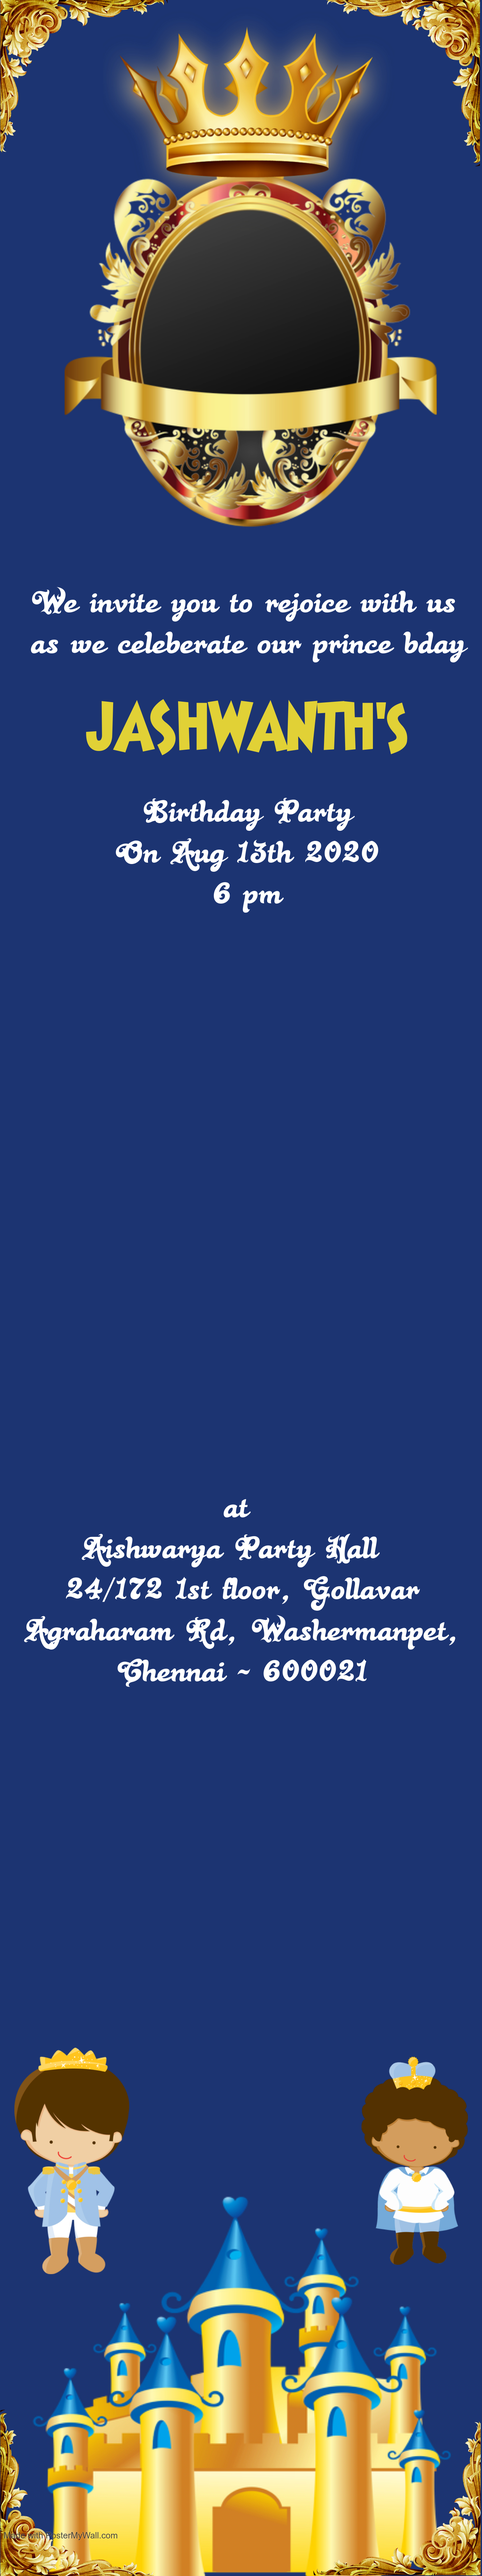
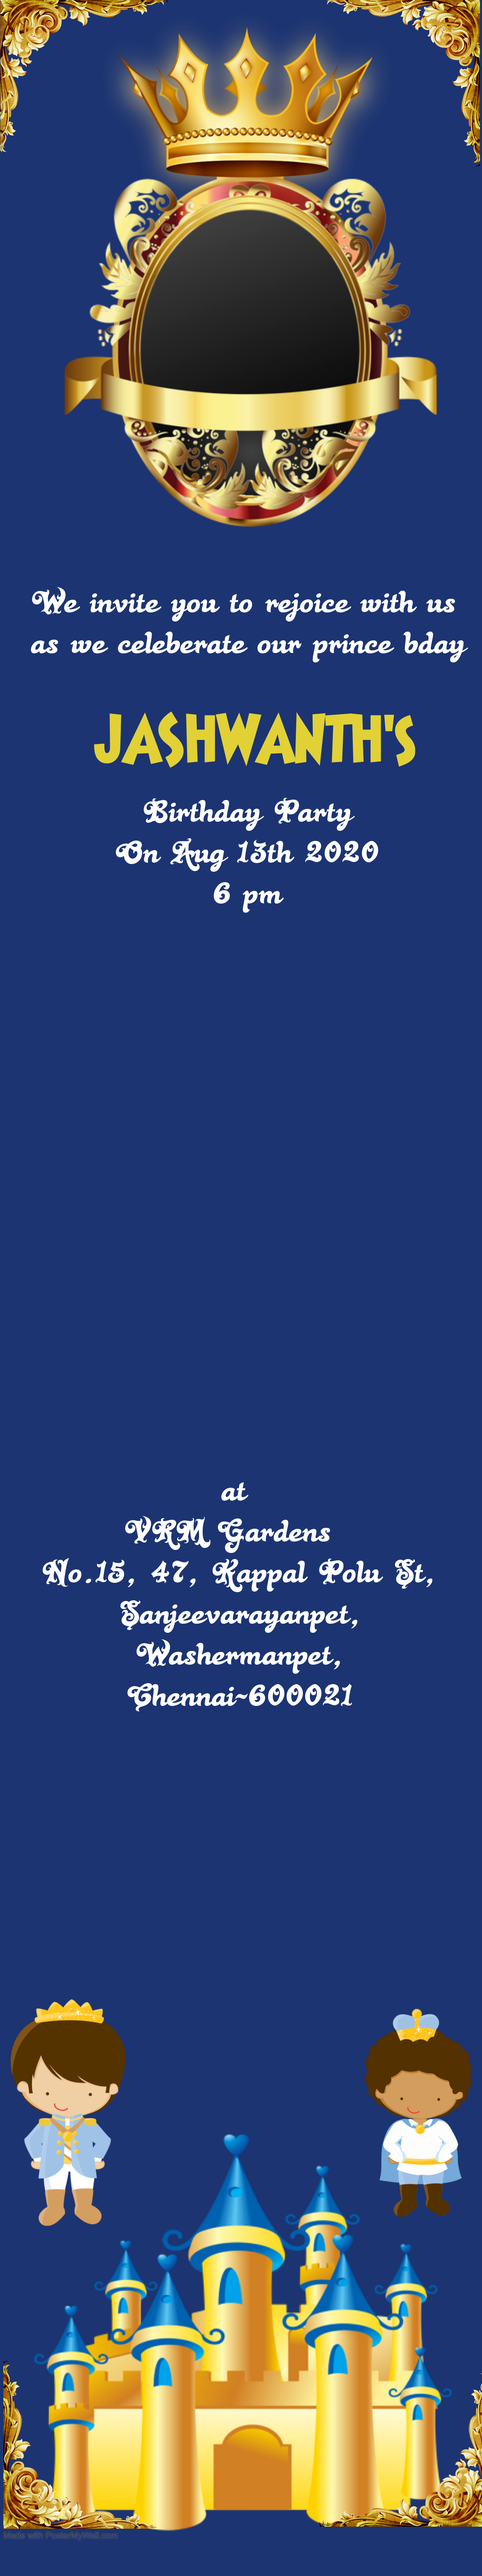
f

Changed region(s): [[0.0, 0.75, 1.0, 1.0], [0.0625, 0.5625, 0.875, 0.6875], [0.1875, 0.25, 0.875, 0.3125]]

diff --git a/jashwanth_invitation.html b/jashwanth_invitation.html
@@ -21,13 +21,13 @@
   <section>
   <h1 style="color:#72c1ff;font-family: 'Tangerine', serif;font-size: 48px;margin-bottom:10px;margin-top: 10px;">Calendar</h1>
   <div style="margin: 24px 0;">
-    <a style="color:yellow;" target="blank" href="https://www.google.com/calendar/event?action=TEMPLATE&dates=20200813T170000Z%2F20200813T210000Z&text=Jashwanth's%20Birthday&location=Aishwarya%20Party%20Hall%20%26%20Catering%20for%20all%20occasions%2C%2024%2F172%201st%20floor%2C%20Gollavar%20Agraharam%20Rd%2C%20Kanniyappan%20Colony%2C%20Sanjeevarayanpet%2C%20Washermanpet%2C%20Chennai%2C%20Tamil%20Nadu%20600021%2C%20India&details=Welcome%20to%20our%20prince's%20birthday%20party"><i style="color:yellow;" class="fa fa-calendar"></i>&nbsp;&nbsp;Save the Date</a>
+    <a style="color:yellow;" target="blank" href="http://www.google.com/calendar/event?action=TEMPLATE&dates=20200813T170000Z%2F20200813T220000Z&text=Jashwanth's%20Birthday&location=VRM%20Gardens&details="><i style="color:yellow;" class="fa fa-calendar"></i>&nbsp;&nbsp;Save the Date</a>
   </div>
   </section>
   <section>
   <h1 style="color:#72c1ff;font-family: 'Tangerine', serif;font-size: 48px;margin-bottom:10px;margin-top: 10px;">Location</h1>
    <div style="/* margin: 24px 0; */">
-    <a target="blank" href="https://goo.gl/maps/WhFEBkqCNzpye8jj6" style="color:yellow;"><i style="color:yellow;" class="fa fa-location-arrow"></i>&nbsp;&nbsp;Click for Directions</a>
+    <a target="blank" href="https://goo.gl/maps/MSs1J9bPjrArvGGNA" style="color:yellow;"><i style="color:yellow;" class="fa fa-location-arrow"></i>&nbsp;&nbsp;Click for Directions</a>
   </div>
   </section>
    <section>
